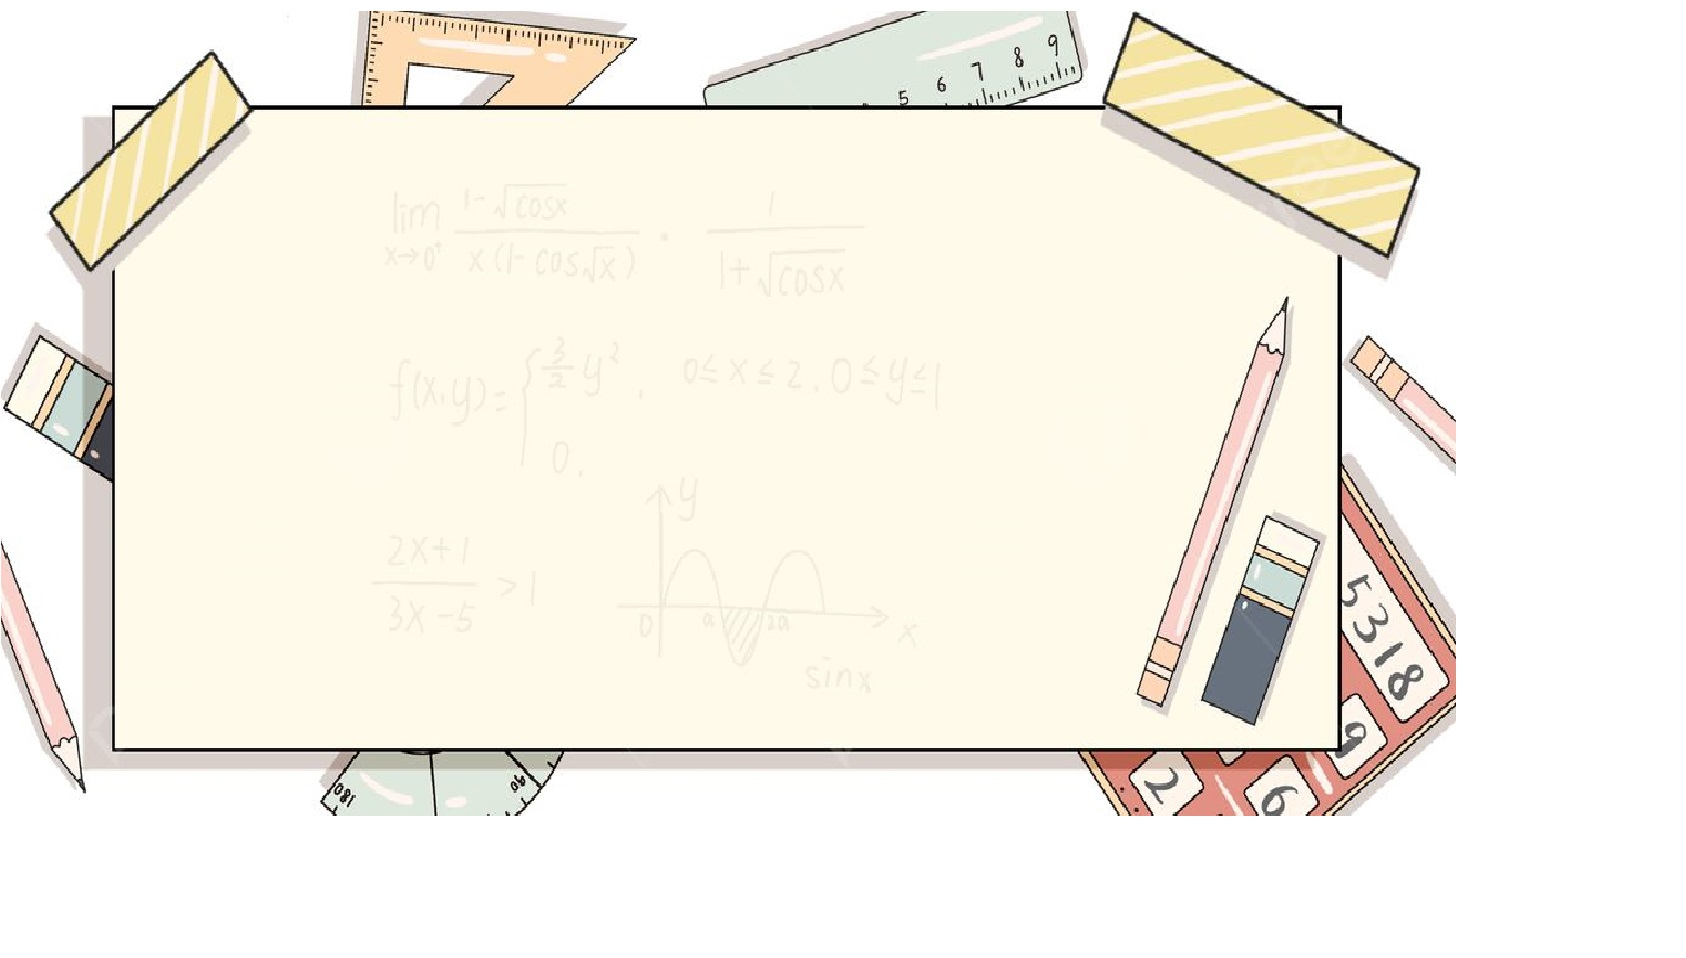
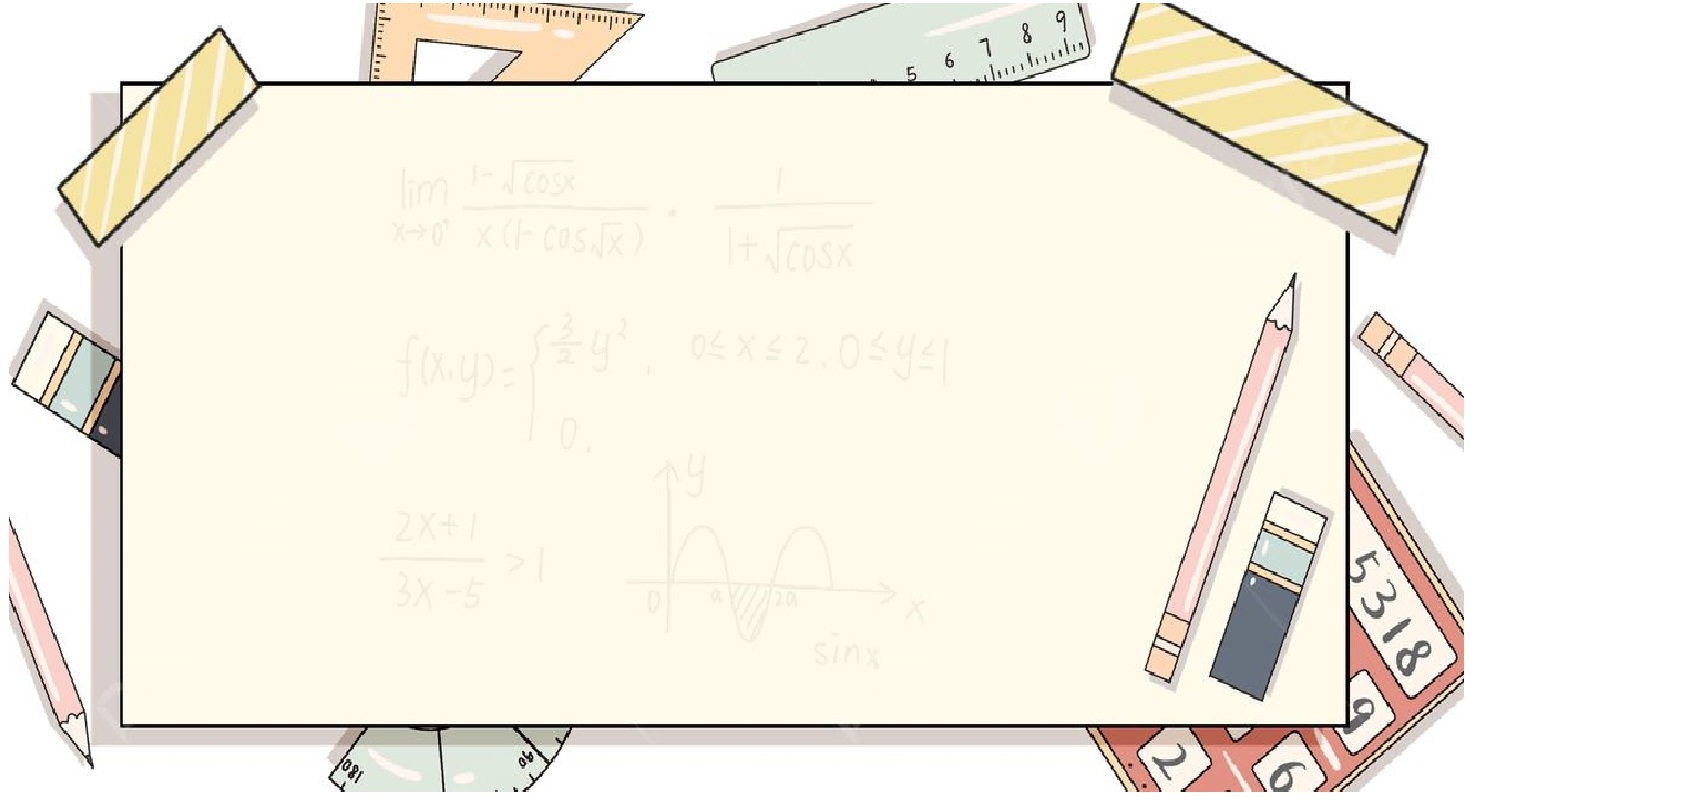
fixing first page of create new unit

Changed region(s): [[0.0, 0.0, 0.8636, 0.9852]]

diff --git a/src/App.js b/src/App.js
@@ -270,16 +270,22 @@ function ValidateTeacher(){
           }></Route>
           
           <Route exact path='/:username/:className/openUnit/:prev/data' element={
-            <div>
+            <div className='background2' style={{zIndex:-1}}>
               <TeacherMenu></TeacherMenu>
               
-              <div className='background2'>
-                <div style={{width:'50%',position:'relative',left:'23%'}}>
-                  <Stepper circleTop={'20%'} 
-                  size={40}
-                  steps={ [{title: 'שלב ראשון'}, {title: 'שלב שני'}, {title: 'שלב שלישי'}, {title: 'שלב רביעי'}] } activeStep={ 1 } />
-                </div>
-                <PickData></PickData>
+              <div style={{zIndex:2}}>
+
+                  <div style={{width:'50%',position:'relative',left:'20%',transform: 'scale(0.8)'}}>
+                    <Stepper circleTop={'20%'} 
+                    size={40}
+                    steps={ [{title: 'שלב ראשון'}, {title: 'שלב שני'}, {title: 'שלב שלישי'}, {title: 'שלב רביעי'}] } activeStep={ 1 } />
+                  </div>
+                 
+                  <div style={{transform: 'scale(1)',marginTop:'-15%',marginLeft:'-10%'}}>
+                    <PickData></PickData>
+                  </div>
+                  
+                
               </div>
  
             </div>

diff --git a/src/index.css b/src/index.css
@@ -214,8 +214,13 @@
 .background2{
   background-image: url("back1.jpeg");
   background-repeat: no-repeat;
+  background-position-y: top;
+  background-position-x:left;
   background-size: cover;
-  
+  min-width: 500px;
+  max-height: 700px;
+  /* transform: scale(1.2); */
+  /* background-position: left; */
   /* background-color: lightblue; */
 }
 
